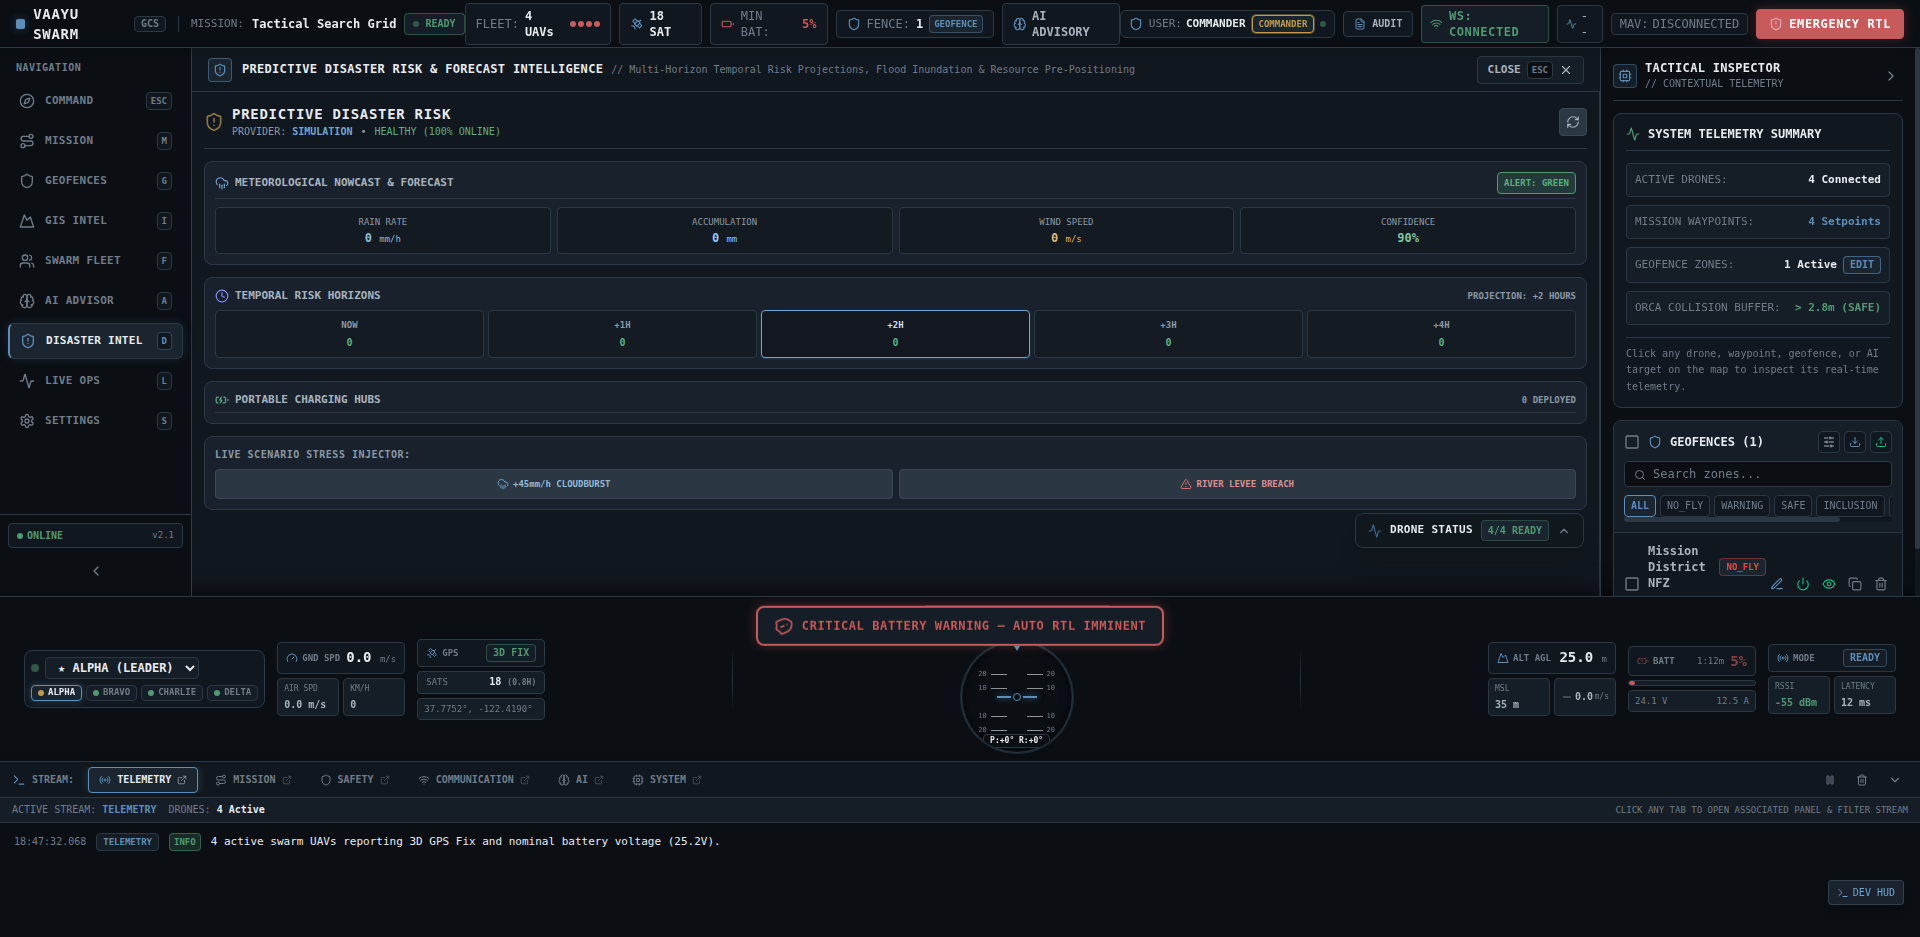
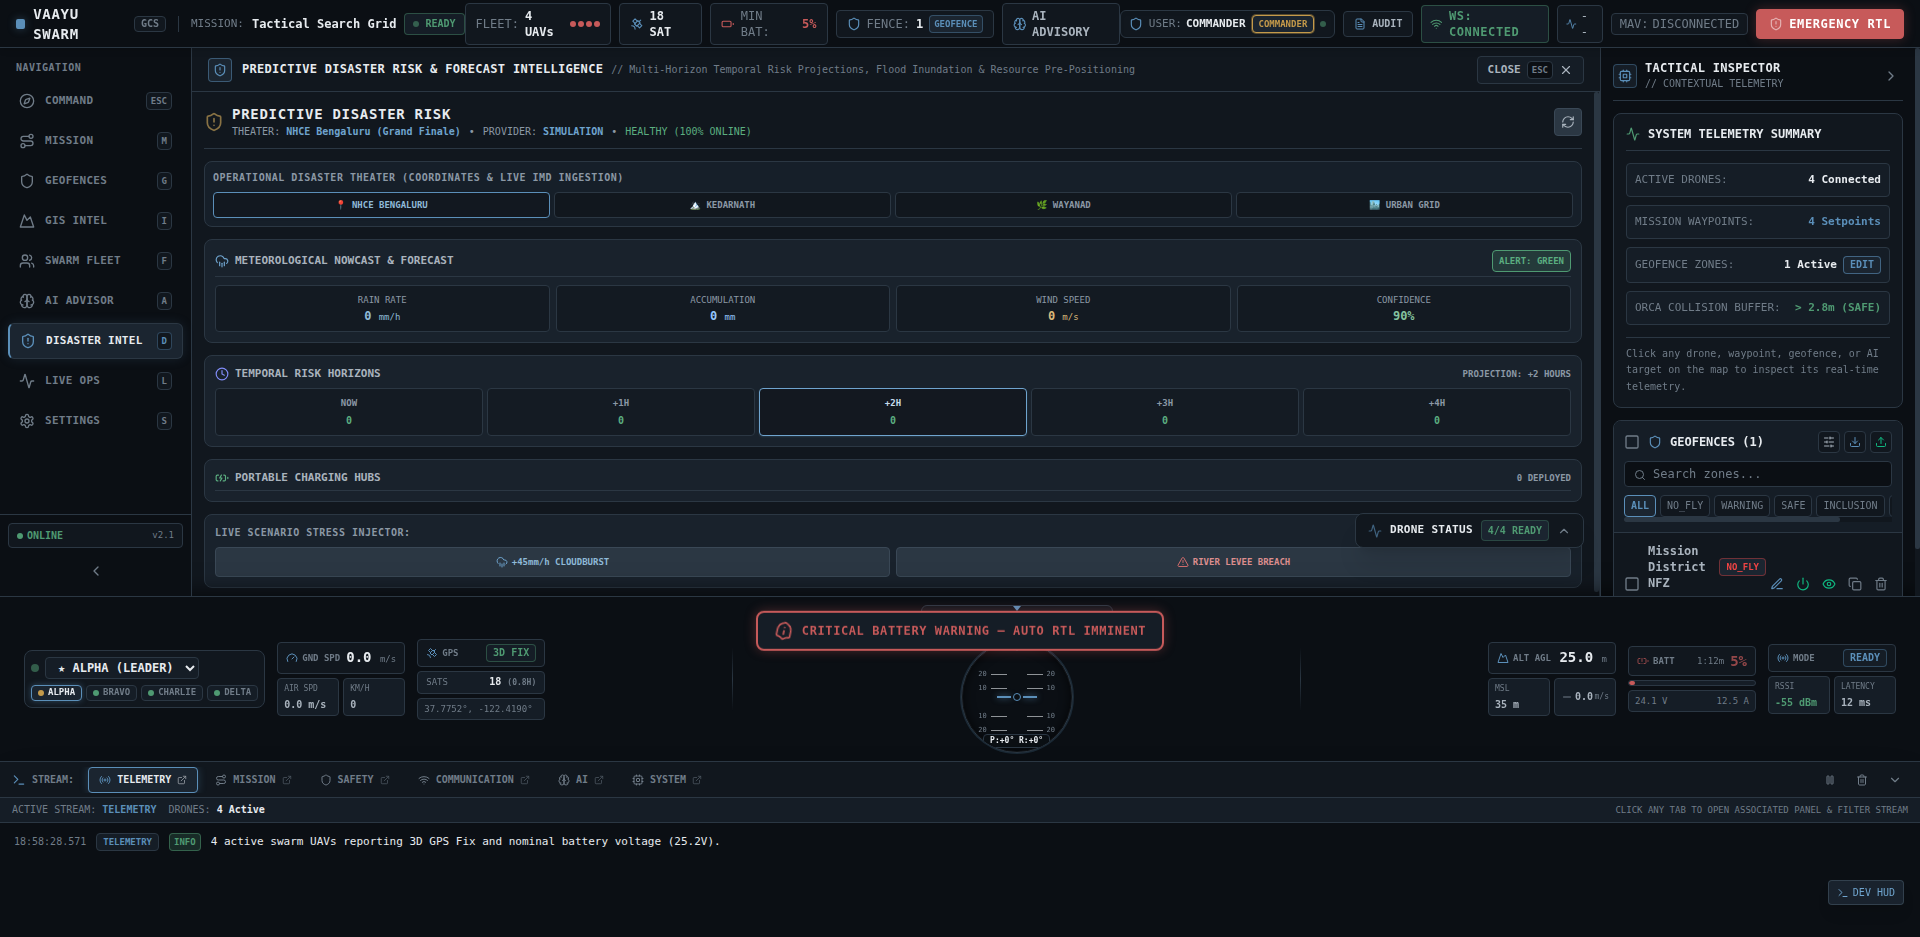
feat(risk): add interactive theater switcher in UI

diff --git a/frontend/src/risk/DisasterIntelPanel.tsx b/frontend/src/risk/DisasterIntelPanel.tsx
@@ -25,10 +25,12 @@ export const DisasterIntelPanel: React.FC = () => {
     recommendations,
     chargingStations,
     selectedCellId,
+    selectedTheater,
     isLoading,
     fetchRiskData,
     setActiveHorizon,
     selectCell,
+    selectTheater,
     injectDisasterScenario,
     executePrepositioning,
     rejectPrepositioning,
@@ -39,6 +41,13 @@ export const DisasterIntelPanel: React.FC = () => {
     const interval = setInterval(fetchRiskData, 5000);
     return () => clearInterval(interval);
   }, []);
+
+  const THEATERS = [
+    { name: 'NHCE Bengaluru (Hackathon Venue)', lat: 12.9345, lon: 77.6912, label: '📍 NHCE BENGALURU' },
+    { name: 'Kedarnath Basin (Mandakini River)', lat: 30.7352, lon: 79.0669, label: '🏔 KEDARNATH' },
+    { name: 'Wayanad Meppadi (Landslide Zone)', lat: 11.5300, lon: 76.1300, label: '🌿 WAYANAD' },
+    { name: 'Tactical Urban Grid (Default)', lat: 37.7749, lon: -122.4194, label: '🏙 URBAN GRID' },
+  ];
 
   const currentGrid = temporalMap?.horizons[activeHorizon];
   const activeObservation = forecast?.observations.find((o) => {
@@ -78,6 +87,8 @@ export const DisasterIntelPanel: React.FC = () => {
           <div>
             <h2 className="text-sm font-bold tracking-wider text-slate-100">PREDICTIVE DISASTER RISK</h2>
             <div className="text-[10px] text-slate-400 flex items-center space-x-2">
+              <span>THEATER: <strong className="text-cyan-400">{selectedTheater}</strong></span>
+              <span>•</span>
               <span>PROVIDER: <strong className="text-cyan-400">{forecast?.provider_name || 'SIMULATION'}</strong></span>
               <span>•</span>
               <span className="text-emerald-400">HEALTHY (100% ONLINE)</span>
@@ -92,6 +103,29 @@ export const DisasterIntelPanel: React.FC = () => {
         >
           <RefreshCw className={`w-3.5 h-3.5 ${isLoading ? 'animate-spin text-cyan-400' : ''}`} />
         </button>
+      </div>
+
+      {/* Operational Disaster Theater Switcher */}
+      <div className="bg-slate-900/60 p-2 rounded-lg border border-slate-800 space-y-1.5">
+        <div className="text-[10px] text-slate-400 font-bold uppercase tracking-wider flex items-center justify-between">
+          <span>OPERATIONAL DISASTER THEATER (COORDINATES & LIVE IMD INGESTION)</span>
+          <span className="text-cyan-400 text-[9px]">{currentGrid ? `${currentGrid.center_lat.toFixed(4)}°N, ${currentGrid.center_lon.toFixed(4)}°E` : ''}</span>
+        </div>
+        <div className="grid grid-cols-4 gap-1">
+          {THEATERS.map((th) => (
+            <button
+              key={th.name}
+              onClick={() => selectTheater(th.name, th.lat, th.lon)}
+              className={`px-1.5 py-1 text-[9px] font-bold rounded border truncate transition-all ${
+                selectedTheater.includes(th.name.split(' ')[0])
+                  ? 'bg-cyan-950/80 border-cyan-500 text-cyan-300 shadow-sm shadow-cyan-900/30'
+                  : 'bg-slate-950 hover:bg-slate-800 border-slate-800 text-slate-400'
+              }`}
+            >
+              {th.label}
+            </button>
+          ))}
+        </div>
       </div>
 
       {/* Meteorological Telemetry Stream */}

diff --git a/frontend/src/stores/riskStore.ts b/frontend/src/stores/riskStore.ts
@@ -142,11 +142,13 @@ interface RiskStoreState {
   recommendations: PrepositioningRecommendation[];
   chargingStations: ChargingStation[];
   selectedCellId: string | null;
+  selectedTheater: string;
   isLoading: boolean;
 
   fetchRiskData: () => Promise<void>;
   setActiveHorizon: (horizon: string) => void;
   selectCell: (cellId: string | null) => void;
+  selectTheater: (name: string, lat: number, lon: number) => Promise<void>;
   injectDisasterScenario: (eventType: string, boost: number) => Promise<void>;
   executePrepositioning: (recId: string) => Promise<boolean>;
   rejectPrepositioning: (recId: string) => Promise<boolean>;
@@ -160,6 +162,7 @@ export const useRiskStore = create<RiskStoreState>((set, get) => ({
   recommendations: [],
   chargingStations: [],
   selectedCellId: null,
+  selectedTheater: 'NHCE Bengaluru (Grand Finale)',
   isLoading: false,
 
   fetchRiskData: async () => {
@@ -181,6 +184,21 @@ export const useRiskStore = create<RiskStoreState>((set, get) => ({
 
   selectCell: (cellId: string | null) => {
     set({ selectedCellId: cellId });
+  },
+
+  selectTheater: async (name: string, lat: number, lon: number) => {
+    set({ selectedTheater: name, isLoading: true });
+    try {
+      wsClient.sendEnvelope('risk.set_theater', {
+        name,
+        latitude: lat,
+        longitude: lon,
+      });
+      set({ isLoading: false });
+    } catch (e) {
+      console.error('Failed to set theater:', e);
+      set({ isLoading: false });
+    }
   },
 
   injectDisasterScenario: async (eventType: string, boost: number) => {
